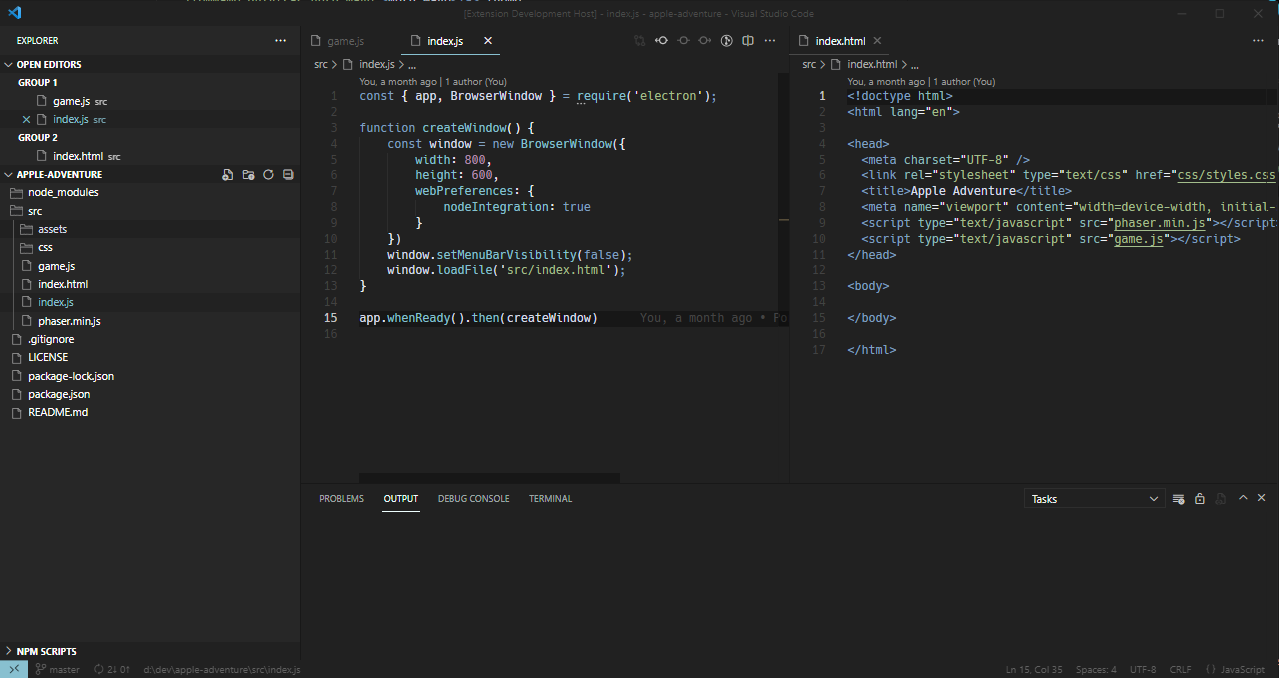
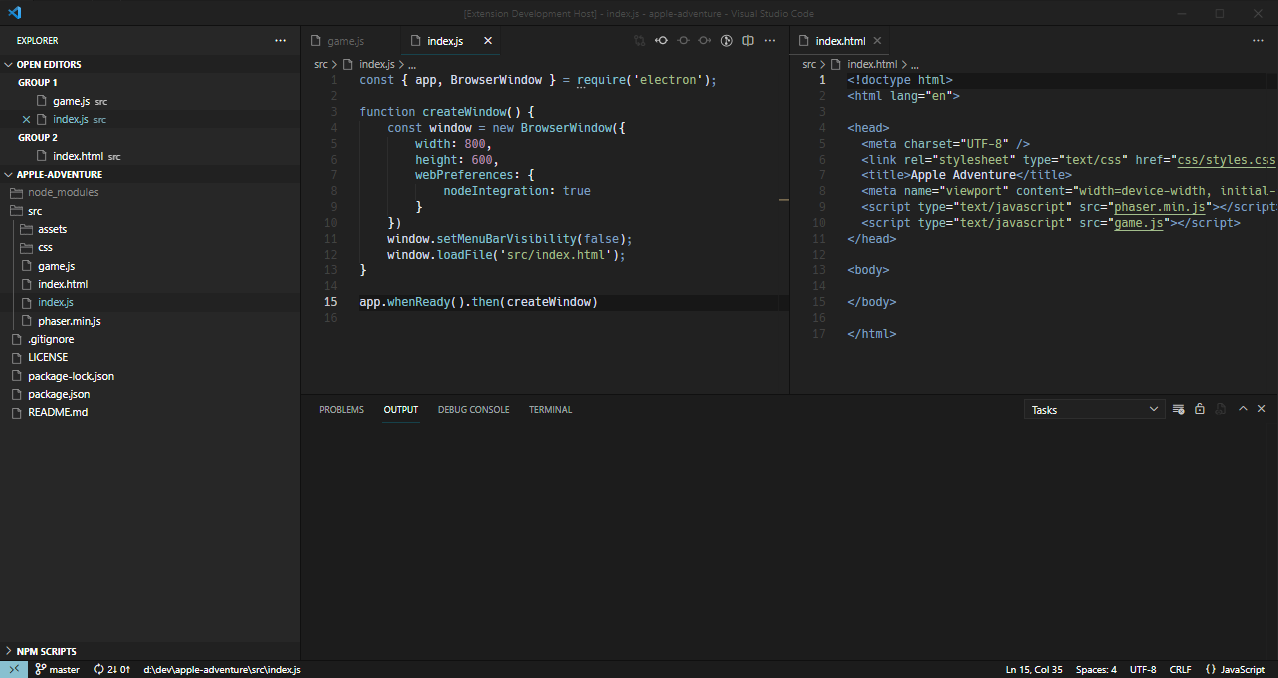
Update version to 0.1.0
Fixed typos
Added missing find option
Tweaked settings to provide more contrast between elements

diff --git a/README.md b/README.md
@@ -18,8 +18,8 @@
 ### Used settings
 ```json
 "workbench.activityBar.visible": false,
-"workbench.editor.wrapTabs": true,
 "editor.fontFamily": "Hack",
 "window.menuBarVisibility": "toggle",
+"editor.minimap.enabled": false,
 ```
-See [here](https://sourcefoundry.org/hack/) for ___Hack___ font.
+See [here](https://sourcefoundry.org/hack/) for Hack font.

diff --git a/CHANGELOG.md b/CHANGELOG.md
@@ -1,5 +1,12 @@
-# Change Log
+# Changelog
 
 ## [0.0.1] - 2022-01-04
 ### Added
 - Initial release
+
+## [0.1.0] - 2022-01-05
+### Updated
+- Minor typos
+- Added more contrast between elements
+- Added missing color to find options
+- Updated example
